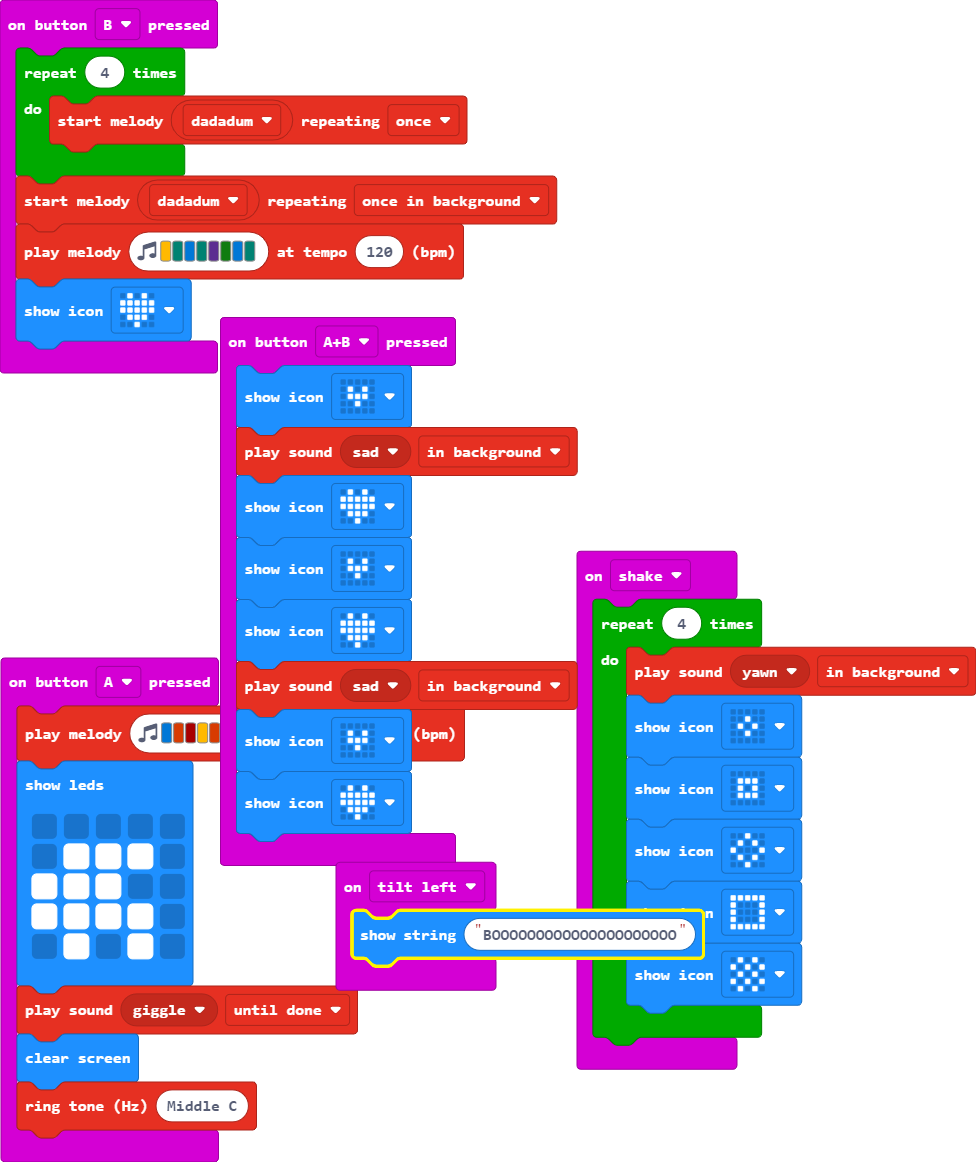
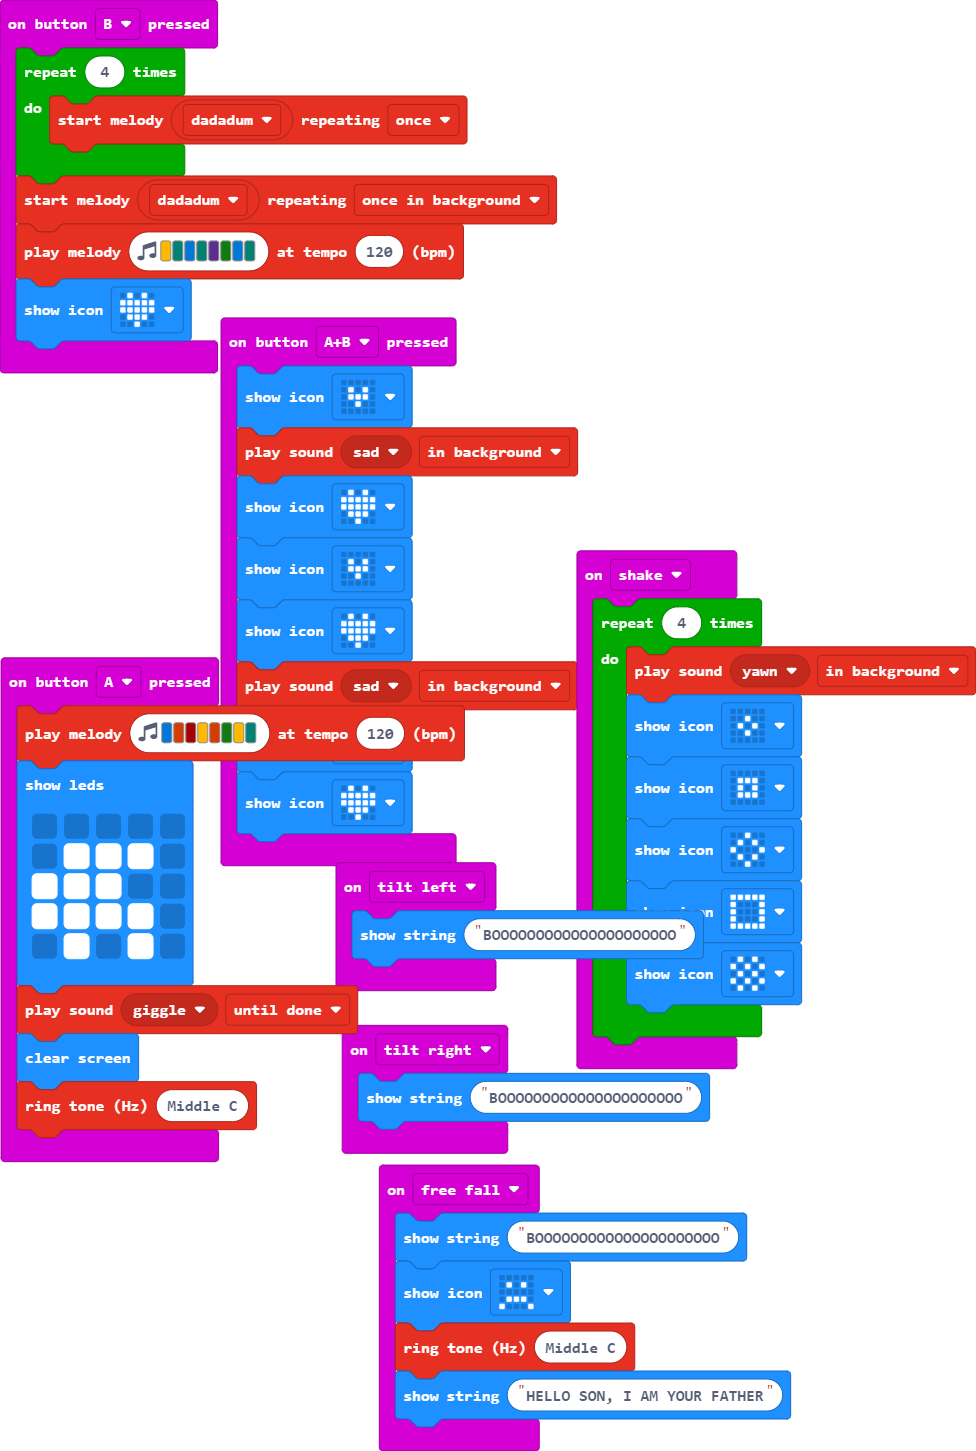
Update main.blocks, main.ts

diff --git a/main.ts b/main.ts
@@ -11,6 +11,12 @@ input.onButtonPressed(Button.A, function () {
     basic.clearScreen()
     music.ringTone(262)
 })
+input.onGesture(Gesture.FreeFall, function () {
+    basic.showString("BOOOOOOOOOOOOOOOOOOOOO")
+    basic.showIcon(IconNames.Sad)
+    music.ringTone(262)
+    basic.showString("HELLO SON, I AM YOUR FATHER")
+})
 input.onGesture(Gesture.TiltLeft, function () {
     basic.showString("BOOOOOOOOOOOOOOOOOOOOO")
 })
@@ -41,4 +47,7 @@ input.onGesture(Gesture.Shake, function () {
         basic.showIcon(IconNames.Square)
         basic.showIcon(IconNames.Chessboard)
     }
+})
+input.onGesture(Gesture.TiltRight, function () {
+    basic.showString("BOOOOOOOOOOOOOOOOOOOOO")
 })
